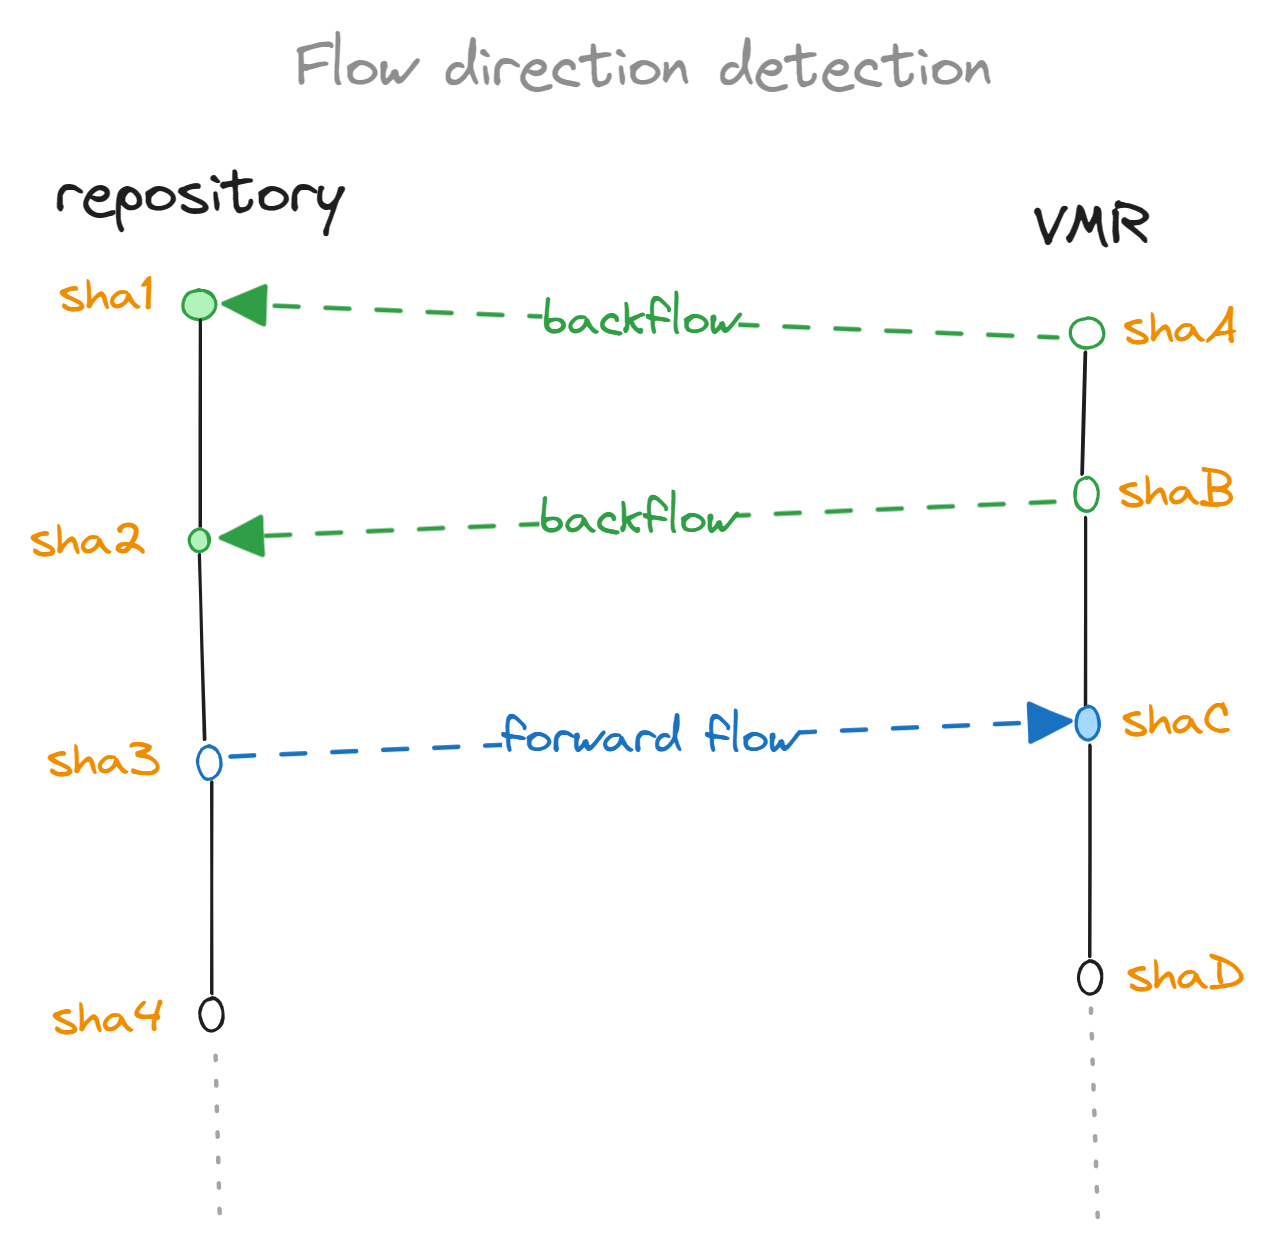
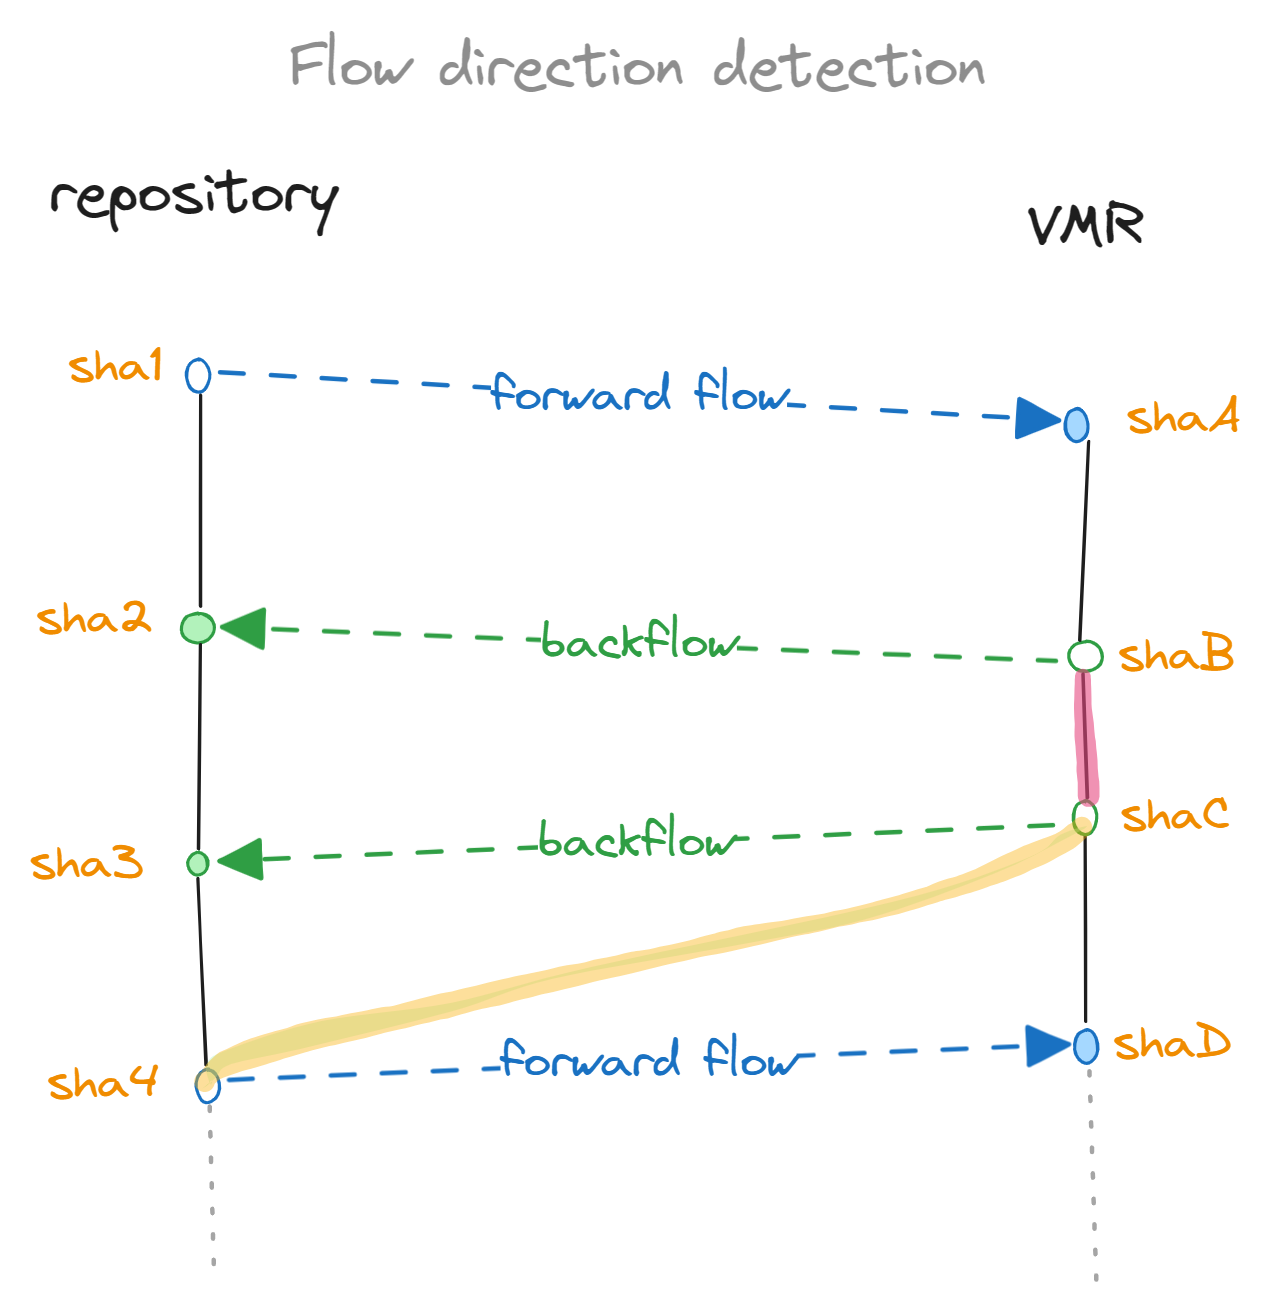
Add detection section

diff --git a/Documentation/UnifiedBuild/Full-Code-Flow.md b/Documentation/UnifiedBuild/Full-Code-Flow.md
@@ -208,7 +208,7 @@ When we are forming the backflow commit (`13.`), we know that the only things th
 
 ### Last flow detection
 
-For the above to work correctly, we need to be able to tell which situation we're in and which direction the last flow happened.
+For the above to work correctly, we need to be able to tell which situation we're in and which direction the last flow happened. For this to work, we need to store the last SHA of the counterpart repository that we have synchronized from the last. In the present VMR, this information is already present in the `source-manifest.json` file. For flowing from the VMR into an individual repository, we will store this in the `Version.Details.xml` file.
 
 ![Detecting flow direction](images/flow-detection.png)
 
@@ -216,15 +216,41 @@ Let's assume we're at the point of wanting to open a flow PR from a given commit
 - Last points of synchronization in source and target repositories
 - Base commit in the target repository
 
-Let's assume 
+#### Detecting incoming flow
+
+Let's assume we want to open a forward flow PR from commit `sha4`. To create the PR, we need the find out that:
+1. `shaC` backflowed to `sha3`.
+2. No other flow happened after that.
+
+We can deduce this information easily from:
+1. `Version.Details.xml` in `sha4` (our starting point) contains `shaC` as the last synchronized commit from the VMR.
+2. `source-manifest.json` in the destination VMR commit contains a commit older than `sha3`.
+
+`shaC` will then be both the base commit of the PR branch and also the commit we will be creating the diff (shown in yellow) against as you can see if you compare this simplified diagram to the "Forward flow after backflow" one above.
+
+#### Detecting outgoing flow
+
+Now let's assume we're trying to backflow from `shaC`, creating `sha3`. This time, we need to find out that:
+1. `shaB` backflowed to `sha2`.
+2. No other flow happened after that.
+
+We can deduce this information easily from:
+1. `Version.Details.xml` in `sha2` (our destination point) has `shaB` as the last synchronized commit from the VMR.
+2. `source-manifest.json` in `shaC` (our starting point) VMR commit contains `sha2`.
+
+We will then use the `shaB`-`shaC` diff (in pink) as the diff for the PR while basing the PR branch off of `sha2` (last known place we backflowed into).
+
+#### Cases when SHA is not in the graph
+
+> ⚠⚠⚠ TODO
 
 ### Conflicts
 
-⚠⚠⚠ TODO
+> ⚠⚠⚠ TODO
 
 ### Updating PRs
 
-⚠⚠⚠ TODO
+> ⚠⚠⚠ TODO
 
 ## Synchronization configuration
 
